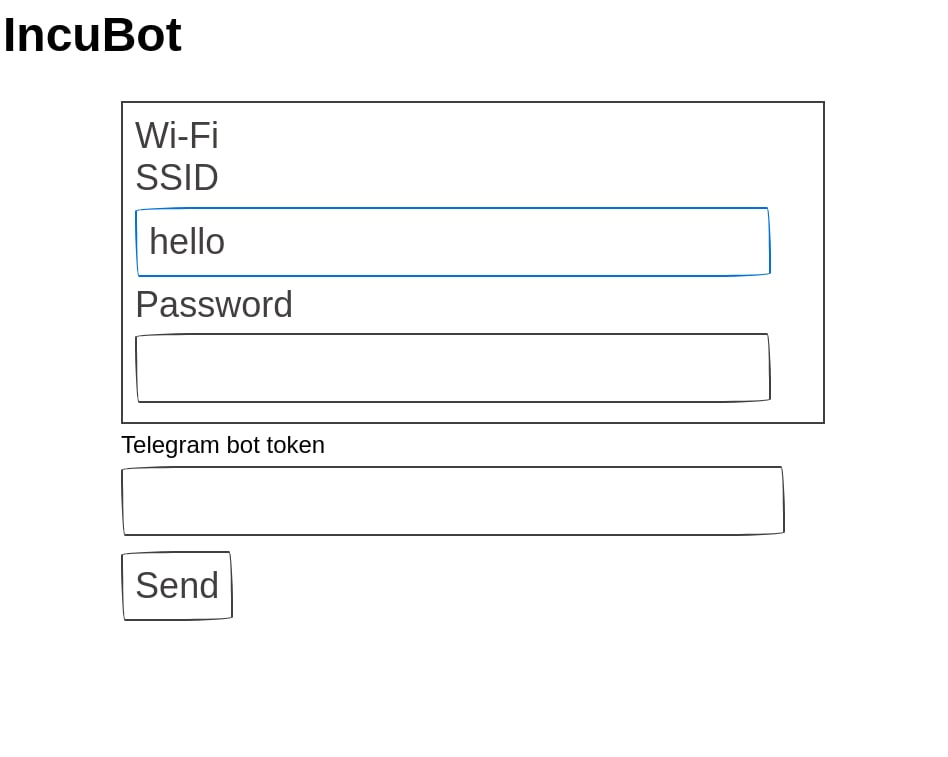
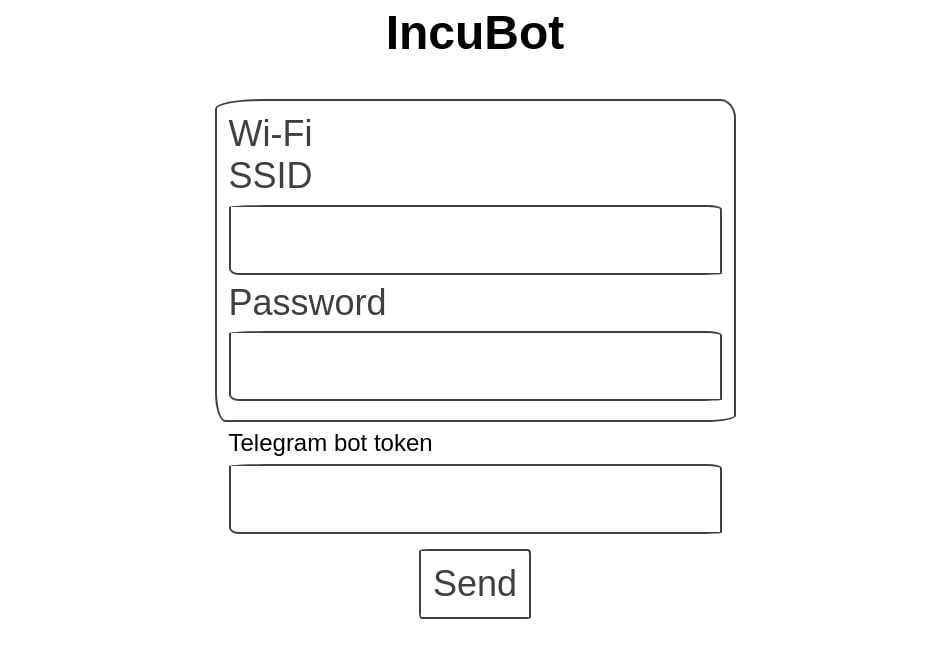
fix alignment

diff --git a/src/index.html b/src/index.html
@@ -10,13 +10,15 @@
             button {
                 font-family: Avenir, Helvetica, Arial, sans-serif;
             }
-            label, button {
+            label,
+            button {
                 cursor: pointer;
                 display: block;
             }
             input,
             button,
             fieldset {
+                display: block;
                 color: #41403e;
                 border-color: #41403e;
                 background: transparent;
@@ -26,24 +28,18 @@
                 font-size: 1.5rem;
                 padding: 0.5rem;
                 margin: 0.2em 0 0.2em;
-            }
-            input,
-            button {
-                min-width: 0;
-                border-bottom-left-radius: 15px 255px;
-                border-bottom-right-radius: 225px 15px;
-                border-top-left-radius: 255px 15px;
-                border-top-right-radius: 15px 225px;
-            }
-            input {
-                width: calc(100% - 1.5rem - 4px);
+                border-bottom-left-radius: 2% 9%;
+                border-bottom-right-radius: 6% 2%;
+                border-top-left-radius: 9% 3%;
+                border-top-right-radius: 3% 6%;
             }
             input:focus,
             button:focus,
             button:hover {
                 border-color: #0071de;
             }
-            div {
+            div,
+            h1 {
                 display: flex;
                 flex-wrap: wrap;
                 justify-content: center;
@@ -51,7 +47,7 @@
         </style>
         <h1>IncuBot</h1>
         <div>
-            <form action="get.html">
+            <form>
                 <fieldset>
                     Wi-Fi
                     <label>
@@ -63,11 +59,15 @@
                         <input type="password" name="password" />
                     </label>
                 </fieldset>
-                <label>
-                    Telegram bot token
-                    <input type="text" name="token" />
-                </label>
-                <button>Send</button>
+                <div>
+                    <label>
+                        Telegram bot token
+                        <input type="text" name="token" />
+                    </label>
+                </div>
+                <div>
+                    <button>Send</button>
+                </div>
             </form>
         </div>
     </body>
